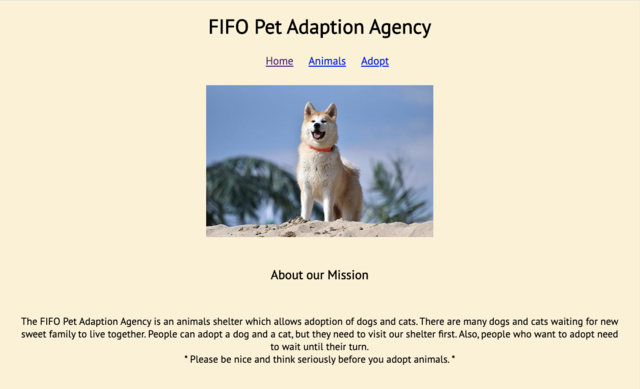
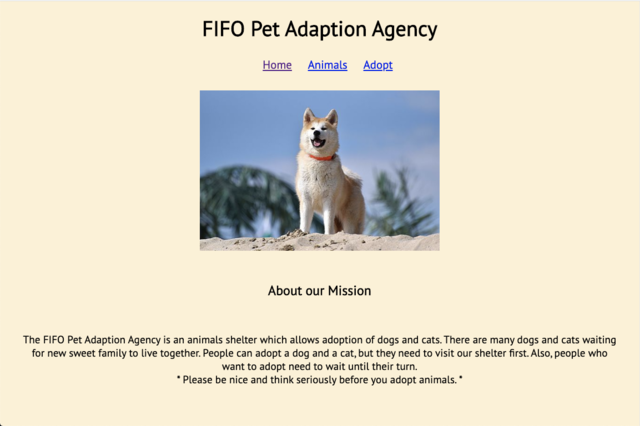
contact size change

Changed region(s): [[0.3125, 0.0308, 0.6875, 0.617], [0.0312, 0.7712, 0.9688, 0.9563], [0.4062, 0.6478, 0.5938, 0.7404]]

diff --git a/main.css b/main.css
@@ -100,8 +100,8 @@ header img {
 
 section img {
     box-shadow: 0 4px 6px 0 rgba(0, 0, 0, 0.5), 0 6px 20px 0 rgba(0, 0, 0, 0.17);
-    max-width: 80%;
-    max-height: 80%;
+    max-width: 90%;
+    max-height: 90%;
 }
 
 button {
@@ -171,9 +171,9 @@ footer {
     display: inline-block;
     padding: 3%;
     margin: 2%;
-    width: 160px;
     border: 1px solid gray;
     text-align: center;
+    width: 40%;
 }
 
 #contact a {
@@ -187,13 +187,18 @@ footer {
     }
 }
 
-@media screen and (min-width: 770px) {
+@media screen and (min-width: 760px) {
     body {
         font-size: 35px;
     }
 
     header {
         font-size: 50px;
+    }
+
+    #contact li {
+        display: inline-block;
+        width: 30%;
     }
 
     p {
@@ -219,7 +224,7 @@ footer {
     }
 }
 
-@media screen and (min-width: 1025px) {
+@media screen and (min-width: 1024px) {
     body {
         padding-top: 70px !important; 
         margin: 0;
@@ -259,7 +264,8 @@ footer {
     }
 
     #contact h2 {
-        padding-top: 70px;
+        padding-top: 40px;
+        padding-bottom: 70px;
     }
 
     header img {
@@ -272,15 +278,13 @@ footer {
         max-height: 130%;
     }
 
-    #contact {
-        font-size: 30px;
+    #contact h2 {
+        padding-top: 70px;
     }
 
     #contact li {
         display: inline-block;
-        padding: 3%;
-        margin: 2%;
-        width: 210px;
+        width: 15%;
     }
 
     footer {

diff --git a/index.html b/index.html
@@ -264,7 +264,7 @@
                 <h2>Contact</h2>
                     <ul>
                         <li><a href="tel:+12019036879">Phone</a></li>
-                        <li><a href="mailto:hskang135@gmail.com" target="_blank">Email</a></li>
+                        <li><a href="mailto:hskang135@gmail.com" target="_blank">Email</a></li> <br />
                         <li><a href="https://github.com/hskang135" target="_blank">GitHub</a></li>
                         <li><a href="https://www.linkedin.com/in/heesu-kang-687430110/" target="_blank">LinkedIn</a></li>
                     </ul>
